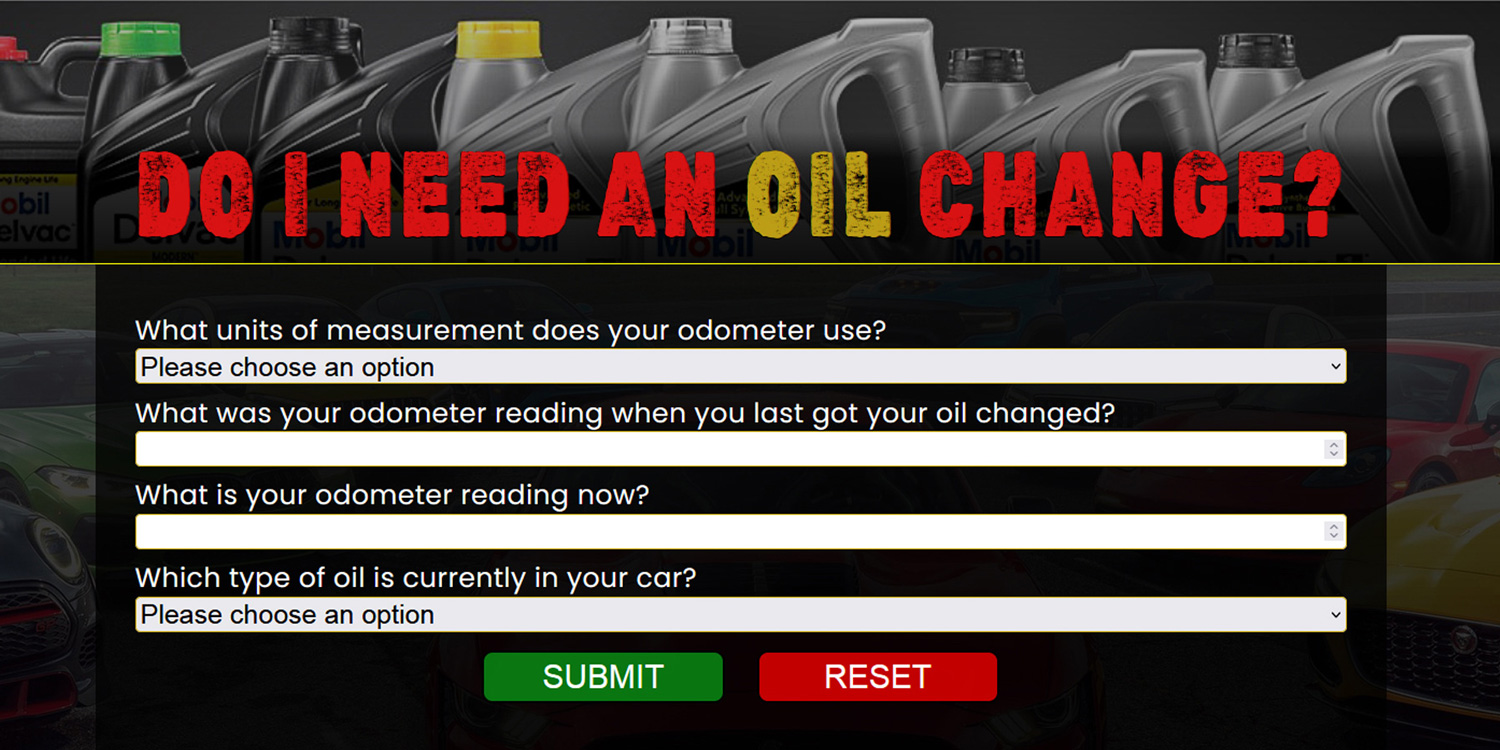
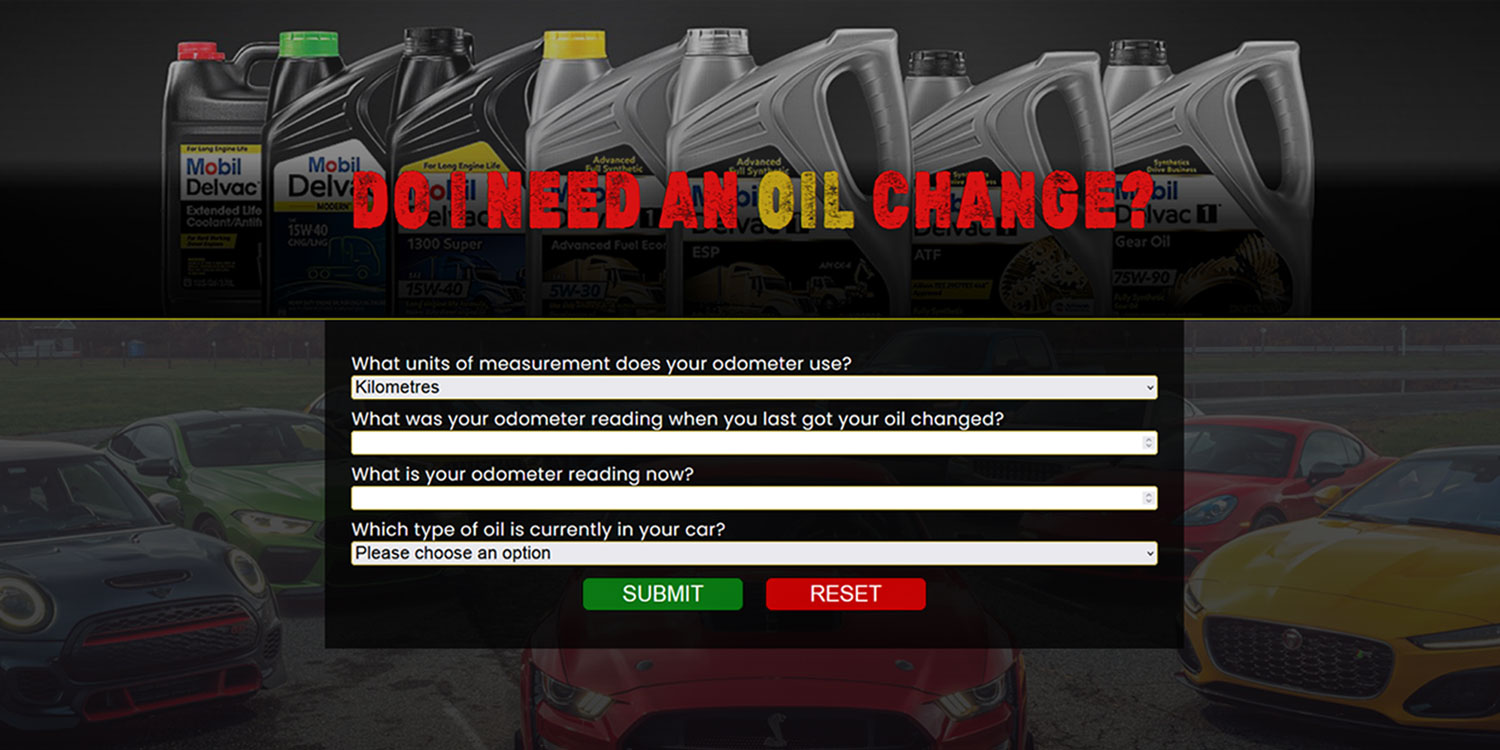
fixed image responsive sizing in projects section

diff --git a/index.html b/index.html
@@ -153,7 +153,7 @@
 
         <div class="projectContainerB">
           <div class="projectLeft">
-            <a href="https://box12dispatch-demo.netlify.app/" target="_blank">
+            <a href="https://box12dispatch-demo.netlify.app/" target="_blank" class="imgLink">
               <img src="./assets/box12.jpg" alt="Do I need an oil change? app">
             </a>
           </div>
@@ -184,7 +184,7 @@
             </div><!--linksContainer div end -->
           </div><!--projectLeft div end-->
           <div class="projectRight">
-            <a href="https://dapper-sable-e8c145.netlify.app/" target="_blank">
+            <a href="https://dapper-sable-e8c145.netlify.app/" target="_blank" class="imgLink">
               <img src="./assets/unwantedroomates.jpg" alt="Unwanted Roomates app">
             </a>
           </div><!--projectRight div end-->
@@ -192,7 +192,7 @@
 
         <div class="projectContainerB">
           <div class="projectLeft">
-            <a href="https://oilchangev2.netlify.app/ " target="_blank">
+            <a href="https://oilchangev2.netlify.app/" target="_blank" class="imgLink">
               <img src="./assets/oilchange.jpg" alt="Do I need an oil change? app">
             </a>
           </div>
@@ -212,10 +212,10 @@
         <div class="projectContainerA">
           <div class="projectLeft">
             <h3>BeachStays</h3>
-            <p class="mainTextBlack">
-              Multi-page PSD conversion project for a fictional tropical resort. 
+            <p class="mainTextBlack"> Multi-page conversion project for a fictional tropical resort. This project involved converting a photoshop rendering by a designer and rendering it into a responsive website. 
+
   
-              HTML5, CSS3, JavaScript
+            HTML5, CSS3, JavaScript
             </p>
             <div class="linksContainer">
               <a href="https://ornate-starship-f52919.netlify.app/" class="codeLink" target="_blank">Live site</a>
@@ -223,7 +223,7 @@
             </div><!--linksContainer div end -->
           </div><!--projectLeft div end-->
           <div class="projectRight">
-            <a href="https://ornate-starship-f52919.netlify.app/" class="codeLink" target="_blank">
+            <a href="https://ornate-starship-f52919.netlify.app/"  target="_blank" class="imgLink">
               <img src="./assets/beachStays.jpg" alt="Beachstays">
             </a>            
           </div><!--projectRight div end-->
@@ -231,14 +231,13 @@
   
         <div class="projectContainerB">
           <div class="projectLeft">
-            <a href="https://is-the-book-better-44.netlify.app/" class="codeLink" target="_blank">
+            <a href="https://is-the-book-better-44.netlify.app/" target="_blank" class="imgLink">
               <img src="./assets/isthebookbetter.jpg" alt="Is the Book Better?">
             </a>
           </div><!--projectLeft div end-->          
           <div class="projectRight">
             <h3>Is the Book Better?</h3>
-            <p class="mainTextBlack">
-            Team-based REACT project which aims to answer the age-old question: is the book or movie rendition of it better? This app uses two RESTful APIs to make comparisions based on consumer reviews. Created together with Paco Romo, Greg Crutchlow and Matthew Van Luxemborg.
+            <p class="mainTextBlack">Team-based REACT project which aims to answer the age-old question: is the book or movie rendition of it better? This app uses two RESTful APIs to make comparisions based on consumer reviews. Created together with Paco Romo, Greg Crutchlow and Matthew Van Luxemborg.
 
             REACT, HTML5, CSS3, JavaScript, RESTful APIs
             </p>

diff --git a/styles/styles.css b/styles/styles.css
@@ -1140,8 +1140,17 @@ header {
   -webkit-transition-timing-function: cubic-bezier(0.5, 0, 0, 1);
           transition-timing-function: cubic-bezier(0.5, 0, 0, 1);
 }
-.projectLeft img, .projectRight img {
+
+.imgLink {
+  width: 100%;
+  height: 100%;
+}
+.imgLink img {
   border: 1px solid rgba(0, 0, 0, 0.85);
+  -o-object-fit: cover;
+     object-fit: cover;
+  height: 100%;
+  width: 100%;
 }
 
 .projectLeft.active, .projectRight.active {
@@ -1489,8 +1498,7 @@ header {
     opacity: 1;
   }
   .projectLeft .codeLink, .projectRight .codeLink {
-    margin: 10px;
-    margin-bottom: 0;
+    margin: 5px 0;
   }
   .projectRight > h3, .projectLeft > h3 {
     text-align: center;
@@ -1512,6 +1520,7 @@ header {
     -webkit-box-direction: normal;
         -ms-flex-direction: column;
             flex-direction: column;
+    margin-top: 10px;
   }
   .codeLink {
     width: 100%;

diff --git a/styles/sass/partials/_mediaQueries.scss b/styles/sass/partials/_mediaQueries.scss
@@ -214,10 +214,9 @@
     width: 100%;
     padding: 0; 
     opacity: 1; 
-
+   
     .codeLink {
-      margin: 10px;
-      margin-bottom: 0;
+      margin: 5px 0;
     }
   }
 
@@ -237,6 +236,8 @@
 
   .linksContainer {
     flex-direction: column;
+    margin-top: 10px;
+
   }
 
   .codeLink {

diff --git a/styles/sass/partials/_projects.scss b/styles/sass/partials/_projects.scss
@@ -19,8 +19,18 @@
   transition: 1.5s ease-in;
 	transition-timing-function: cubic-bezier(0.5, 0, 0, 1);
 
+}
+
+.imgLink {
+  width: 100%;
+  height: 100%;
+
   img {
     border: 1px solid $black;
+    object-fit: cover;
+    height: 100%;
+    width: 100%;
+   
   }
 }
 
